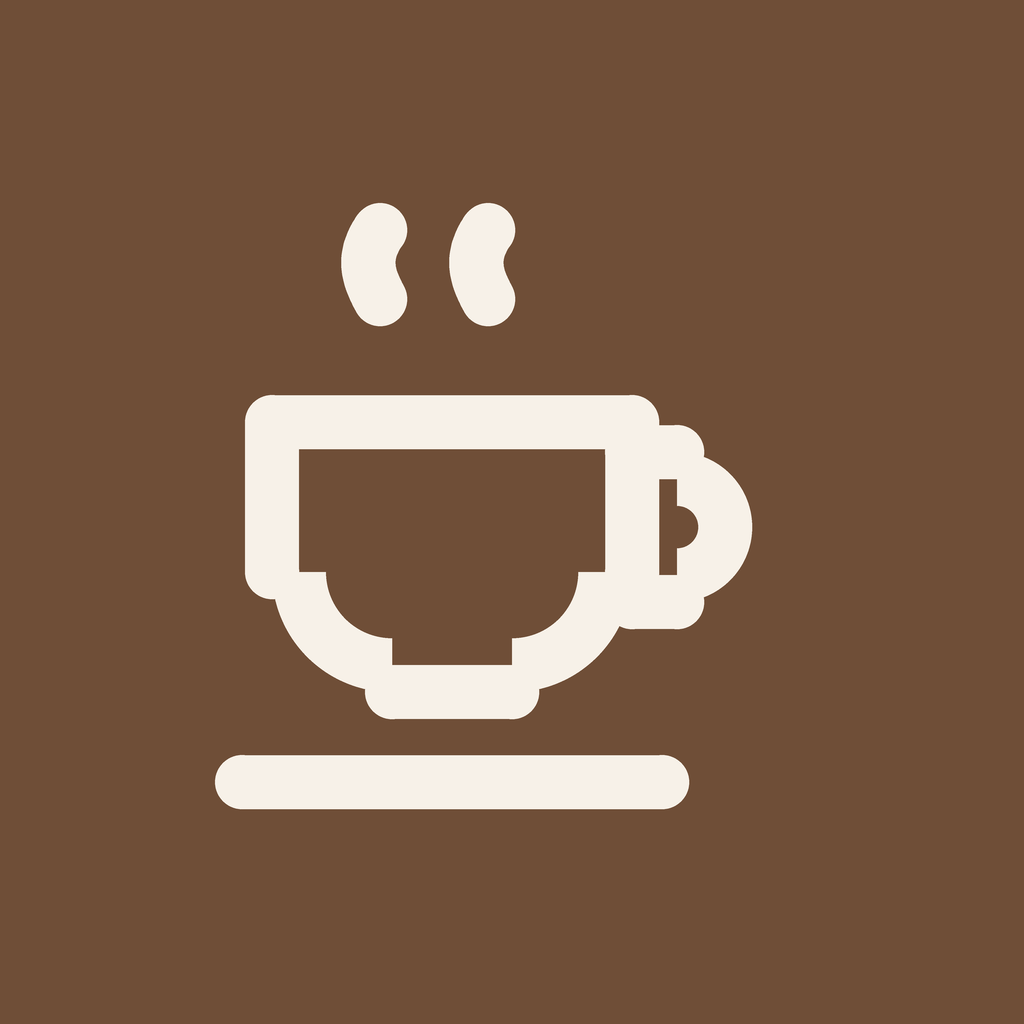
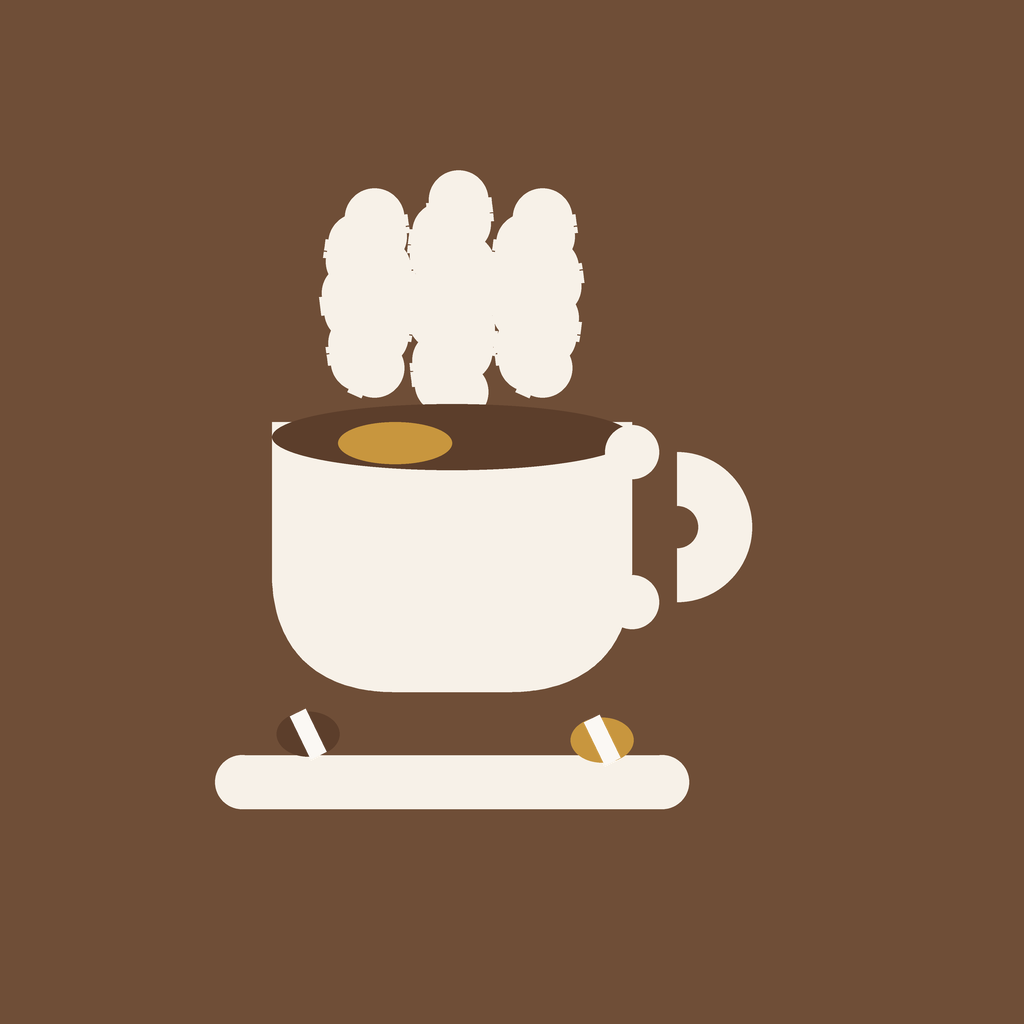
feat(mobile): persisted light/dark/contrast theme picker; splash + launcher art v2 (filled cup, steam, beans)

diff --git a/app/(tabs)/more.tsx b/app/(tabs)/more.tsx
@@ -6,13 +6,14 @@
  * and CA never see — or tap — cards that would bounce them elsewhere. Design:
  * 2-column tiles with the module icon, the way the web sidebar reads.
  */
-import { View, Text, ScrollView, StyleSheet, TouchableOpacity, Switch } from "react-native";
+import { View, Text, ScrollView, StyleSheet, TouchableOpacity } from "react-native";
 import { useState } from "react";
 import { useRouter } from "expo-router";
 import Ionicons from "@expo/vector-icons/Ionicons";
 
 import { useAuth } from "../_layout";
 import type { ThemeColors } from "../../lib/theme";
+import type { ThemeMode } from "../../lib/theme";
 
 type Tile = {
   label: string;
@@ -23,14 +24,14 @@ type Tile = {
 };
 
 export default function MoreScreen() {
-  const { theme, setThemeMode, signOut, user } = useAuth();
+  const { theme, themeMode, setThemeMode, signOut, user } = useAuth();
   const router = useRouter();
-  const [dark, setDark] = useState(false);
 
-  function toggleTheme(value: boolean) {
-    setDark(value);
-    setThemeMode(value ? "dark" : "light");
-  }
+  const MODES: Array<{ value: ThemeMode; label: string }> = [
+    { value: "light", label: "Light" },
+    { value: "dark", label: "Dark" },
+    { value: "contrast", label: "Contrast" },
+  ];
 
   async function handleSignOut() {
     await signOut();
@@ -79,11 +80,25 @@ export default function MoreScreen() {
         <View style={[styles.row, { borderBottomColor: theme.line }]}>
           <View style={{ flexDirection: "row", alignItems: "center", gap: 10 }}>
             <View style={[styles.tileIcon, { backgroundColor: theme.surface2 }]}>
-              <Ionicons name="moon" size={18} color={theme.ink} />
+              <Ionicons name="contrast" size={18} color={theme.ink} />
             </View>
-            <Text style={{ fontSize: 15, color: theme.ink }}>Dark theme</Text>
+            <Text style={{ fontSize: 15, color: theme.ink }}>Theme</Text>
           </View>
-          <Switch value={dark} onValueChange={toggleTheme} trackColor={{ true: theme.primary }} thumbColor={theme.primary} />
+          <View style={[styles.segRow, { backgroundColor: theme.surface2, borderColor: theme.line }]}>
+            {MODES.map((m) => (
+              <TouchableOpacity
+                key={m.value}
+                style={[styles.seg, themeMode === m.value && { backgroundColor: theme.primary }]}
+                onPress={() => setThemeMode(m.value)}
+              >
+                <Text
+                  style={{ fontSize: 11, fontWeight: "600", color: themeMode === m.value ? theme.onPrimary : theme.ink }}
+                >
+                  {m.label}
+                </Text>
+              </TouchableOpacity>
+            ))}
+          </View>
         </View>
       </View>
 
@@ -135,4 +150,6 @@ const styles = StyleSheet.create({
   },
   tileIcon: { width: 40, height: 40, borderRadius: 12, alignItems: "center", justifyContent: "center" },
   signOutButton: { margin: 12, padding: 14, borderRadius: 12, alignItems: "center" },
+  segRow: { flexDirection: "row", borderWidth: 1, borderRadius: 8, overflow: "hidden" },
+  seg: { paddingHorizontal: 10, paddingVertical: 6 },
 });

diff --git a/app/_layout.tsx b/app/_layout.tsx
@@ -12,6 +12,7 @@ import { Stack, Redirect, usePathname, useRouter } from "expo-router";
 
 import { api, type ApiUser } from "../lib/api";
 import { enableMobilePush } from "../lib/push";
+import { loadThemeMode, saveThemeMode } from "../lib/theme";
 import { setUnreadTotal } from "../lib/unreadStore";
 import { getColors, type ThemeColors, type ThemeMode } from "../lib/theme";
 
@@ -60,6 +61,16 @@ export default function RootLayout(): ReactElement | null {
     }
     void check();
   }, []);
+
+  // Theme choice follows the member across launches (SecureStore).
+  useEffect(() => {
+    void loadThemeMode().then((mode) => setThemeMode(mode));
+  }, []);
+
+  function applyThemeMode(mode: ThemeMode) {
+    setThemeMode(mode);
+    void saveThemeMode(mode);
+  }
 
   async function signOut() {
     // Drop the push token BEFORE the cookie dies (best effort — the server
@@ -114,7 +125,7 @@ export default function RootLayout(): ReactElement | null {
   }, [lastNotificationResponse, user, loading, router]);
 
   const auth: AuthContextType = useMemo(
-    () => ({ user, theme, themeMode, setThemeMode, signOut, setUser }),
+    () => ({ user, theme, themeMode, setThemeMode: applyThemeMode, signOut, setUser }),
     [user, theme, themeMode],
   );
 

diff --git a/lib/theme.ts b/lib/theme.ts
@@ -1,3 +1,4 @@
+import * as SecureStore from "expo-secure-store";
 /**
  * SREE DURGA HARIHARA ENTERPRISES — theme tokens.
  *
@@ -113,4 +114,26 @@ const MODES: Record<ThemeMode, ThemeColors> = {
 
 export function getColors(mode: ThemeMode): ThemeColors {
   return MODES[mode] ?? lightColors;
+}
+
+// ---- Persisted theme choice (Phase 18) ----
+// The mode follows the member across launches; web parity (light/dark/contrast).
+const THEME_KEY = "sdhhe_theme_mode";
+const VALID: ThemeMode[] = ["light", "dark", "contrast"];
+
+export async function loadThemeMode(): Promise<ThemeMode> {
+  try {
+    const stored = await SecureStore.getItemAsync(THEME_KEY);
+    return VALID.includes(stored as ThemeMode) ? (stored as ThemeMode) : "light";
+  } catch {
+    return "light";
+  }
+}
+
+export async function saveThemeMode(mode: ThemeMode): Promise<void> {
+  try {
+    await SecureStore.setItemAsync(THEME_KEY, mode);
+  } catch {
+    // Storage unavailable — theme still applies for this session.
+  }
 }
